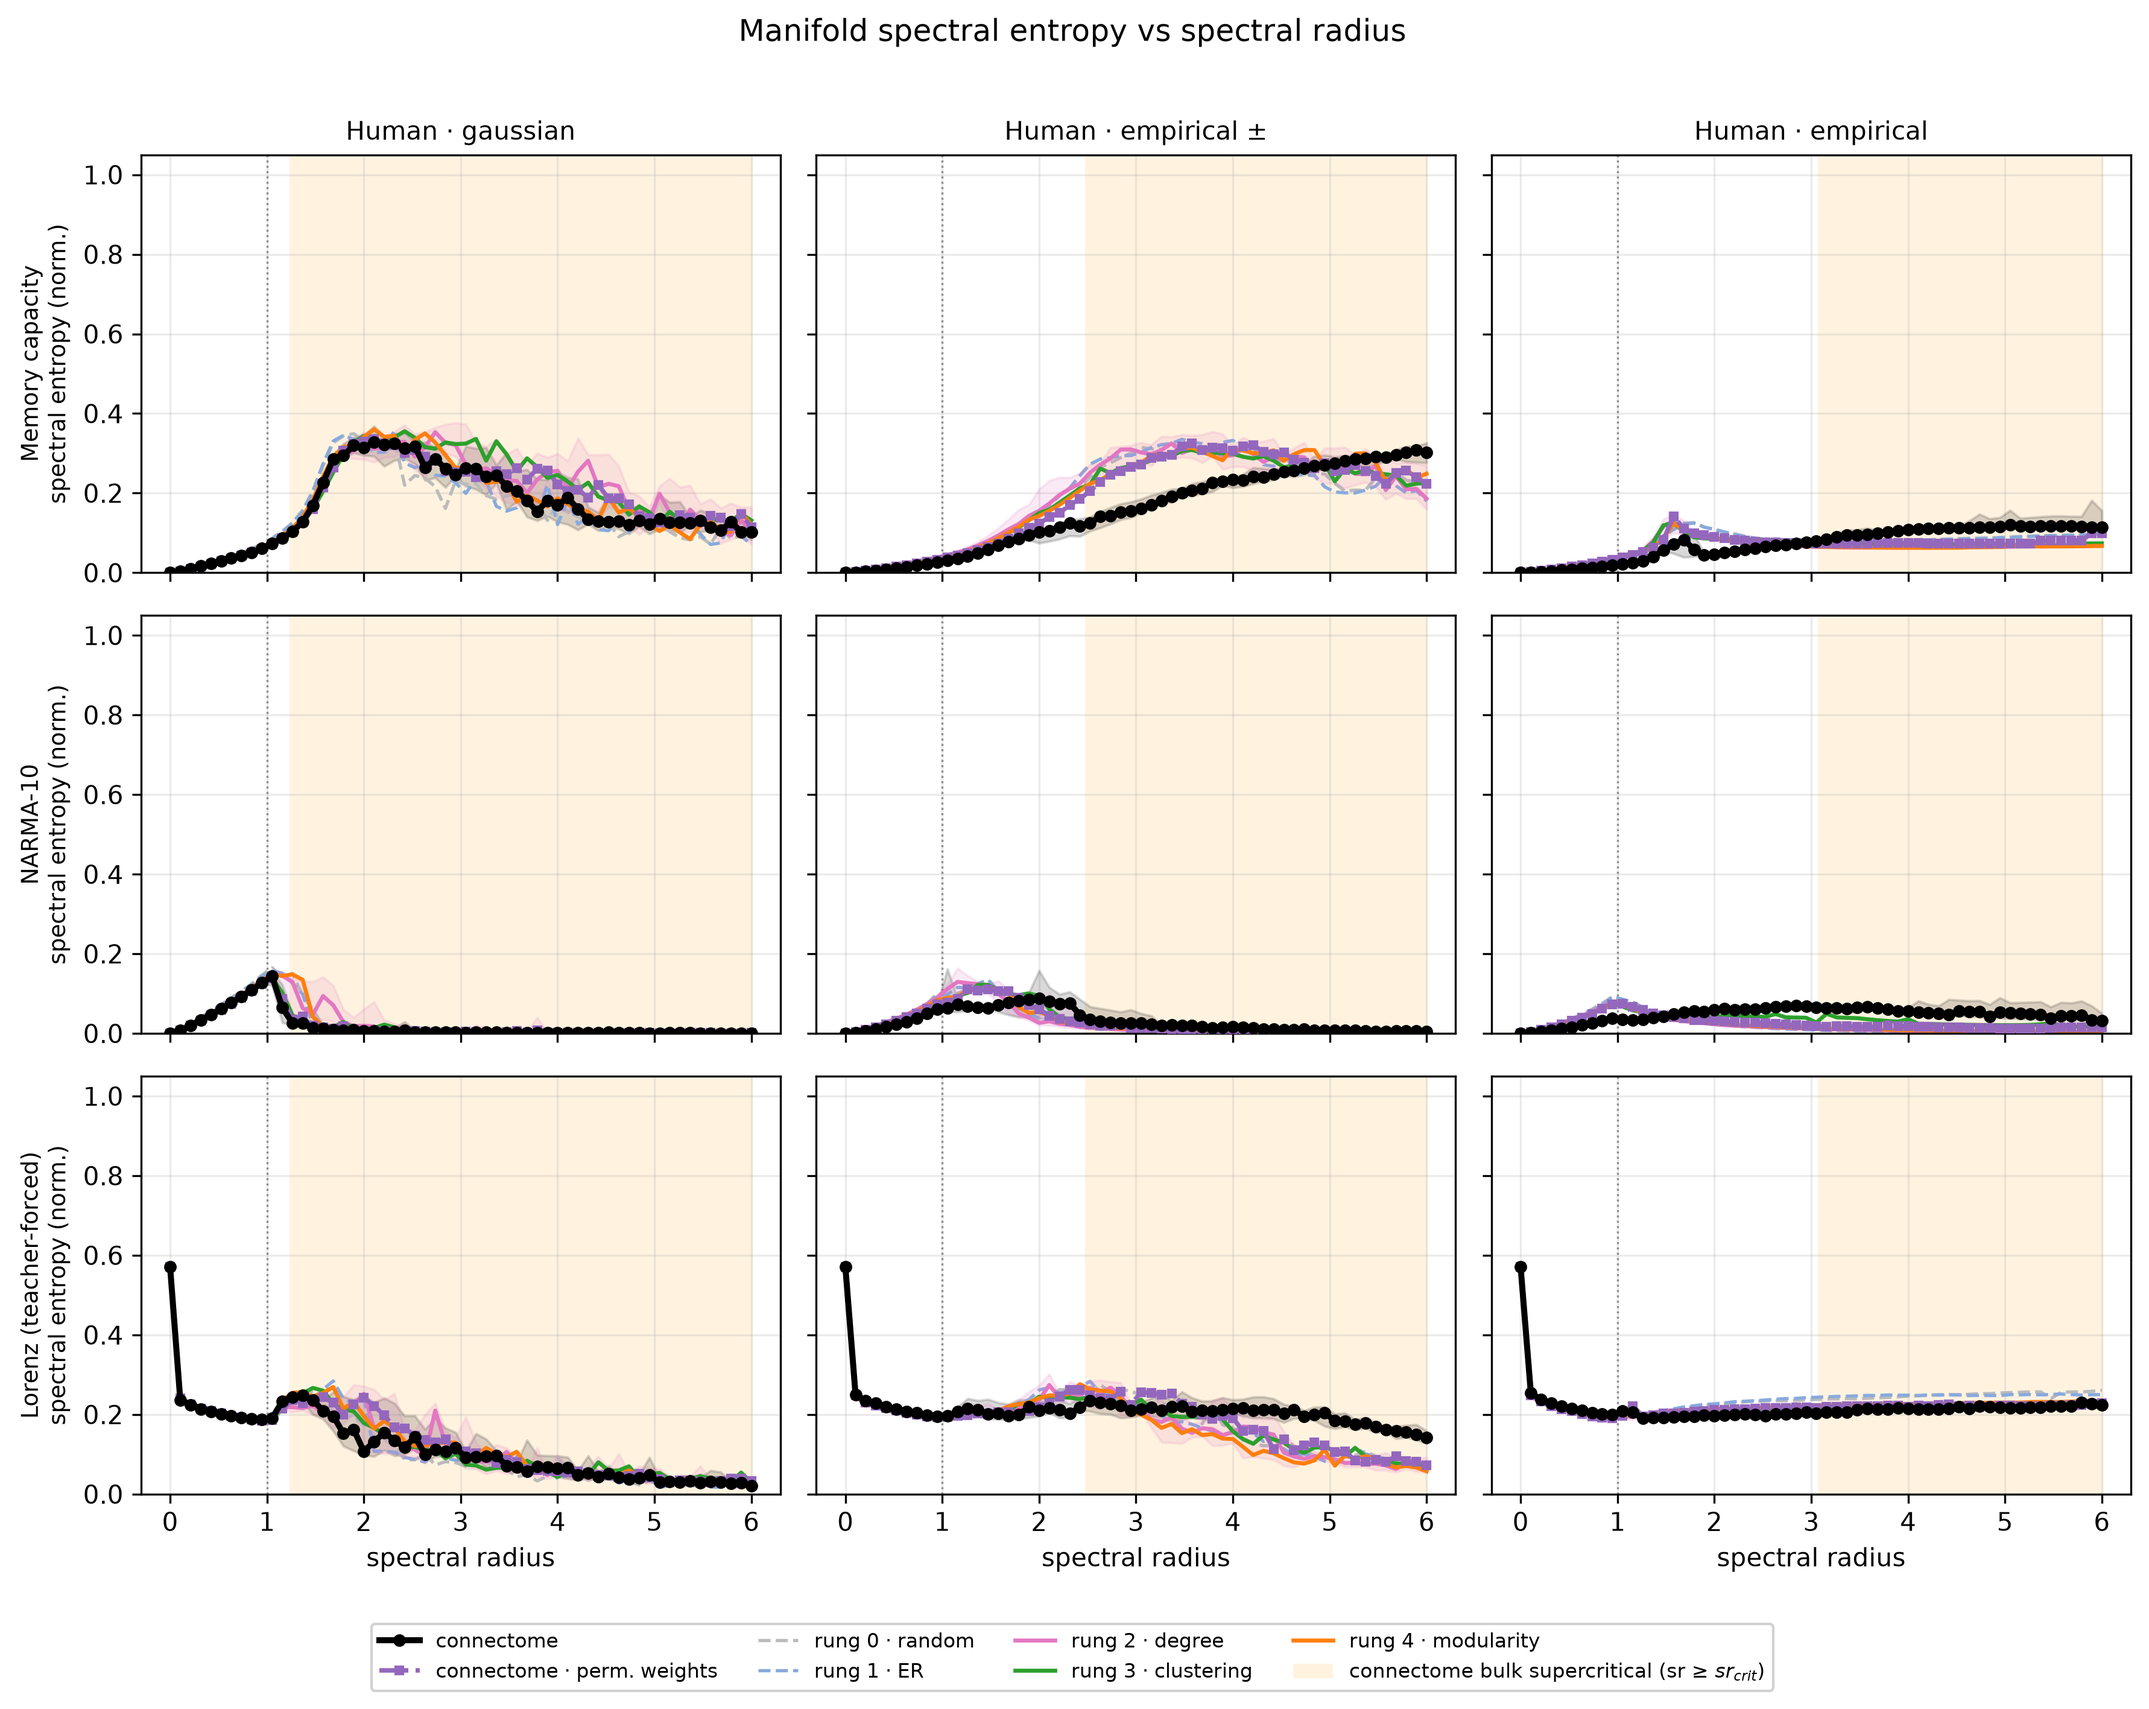
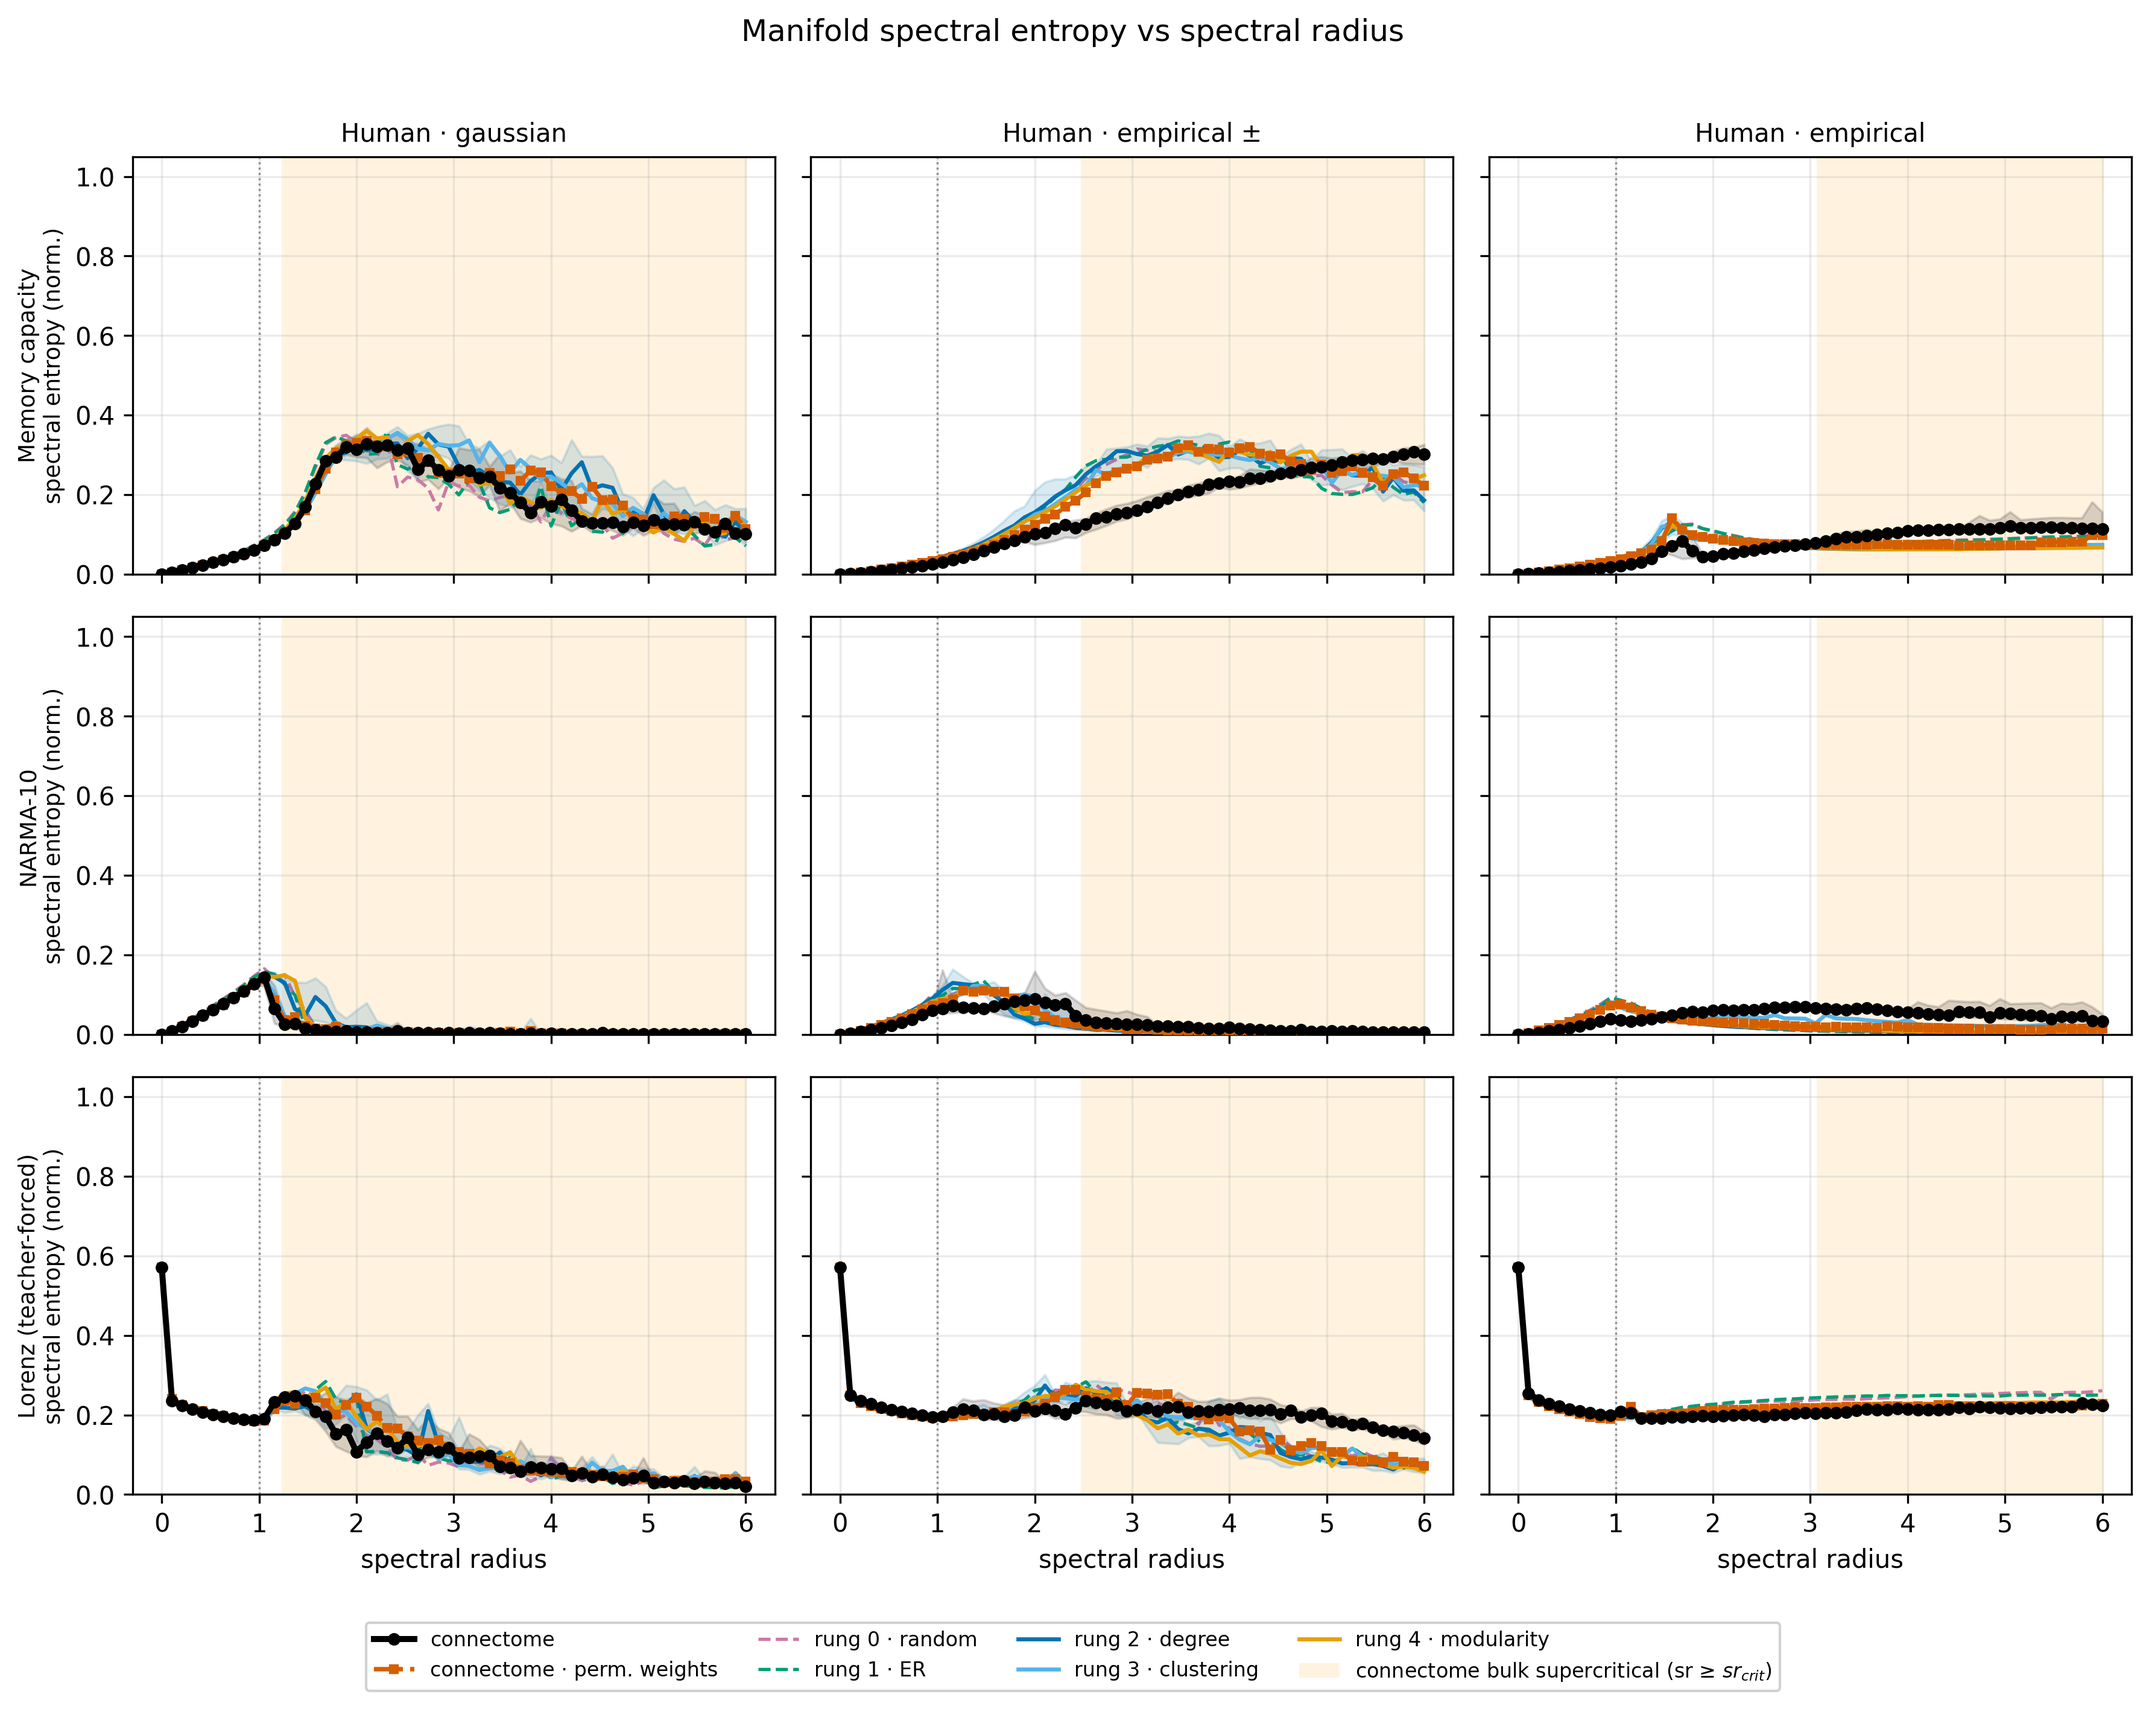
feat(tools): replot the six probe figures onto the new palette, guarded against regeneration
probe1 and probe3 also import `_VARIANT_STYLE`, so six committed figures were left on
the old palette by 8e1da8f: probe1's manifold_{pr,mean_curvature,spectral_entropy}
_vs_sr.png and probe3's probe3_deff_{vs_mc,vs_sr,two_axis}.png. Scope is exactly six --
the other tracked figures in that directory (brain renders, connectogram, alignment,
gap tracking, geometry-vs-performance, PR overlay, eigenvalue spectra) are drawn by
functions that never touch it.

None of the six is a thesis figure. report/FIGURE_LIST.md is canonical for those, and
Act II's chapter figures F4 to F6 render through report/figlib on the current palette.
These are analysis-time artifacts, tracked so probe results stay inspectable, and are
refreshed only so the repo does not carry two palettes into session 2 -- which works in
this directory.

**The obvious way to do this would have regenerated a frozen source.** probe3.run_deff
advertises "No reservoir runs", which is true of compute, but it rewrites
probe3_deff.parquet -- the frozen artifact F6 reads and the one TIER0 sec 3.12's
numbers were promoted from. probe3.run likewise rewrites
manifold_geometry_performance.parquet and manifold_gap_tracking.parquet. Refreshing a
palette must not regenerate a frozen artifact (CONVENTIONS working rule 1), so the tool
reads the frozen parquets and calls the plotting functions directly; probe3's are
private `_plot_*`, which is deliberate and documented.
[…]

diff --git a/tools/replot_task_figures.py b/tools/replot_task_figures.py
@@ -1,10 +1,15 @@
-"""Re-render the per-task figures from frozen results. No simulation.
+"""Re-render the committed `_VARIANT_STYLE` figures from frozen results. No simulation.
 
 Needed whenever the shared variant palette moves: `src/experiment/plots._VARIANT_STYLE`
 is the colour source for every `*_vs_spectral_radius.png` / `*_factorial.png` under
-`experiments/*/`, and `report/figlib/style.check_colour_consistency()` asserts the sweep
-figures use the same one. Change the palette and the committed task figures are stale
-until this runs.
+`experiments/*/` **and for six manifold-probe figures**, and
+`report/figlib/style.check_colour_consistency()` asserts the sweep figures use the same
+one. Change the palette and those committed figures are stale until this runs.
+
+**Nothing here may write a `.parquet`.** Every frozen artifact under `experiments/` is
+fingerprinted (mtime + size) before the run and re-checked after; a single byte moving
+raises. That guard is not paranoia -- see the probe section below, where the obvious
+entry point does exactly that.
 
 **Why this exists rather than `python -m experiments.human.human_mc.run`:** each task's
 `run.py:main` calls `runner.run_matrix(...)` before `stats.run` / `plots.run`, so
@@ -24,6 +29,22 @@ Two config fields need care and are taken from the task's `run.py`, not guessed:
 Mackey-Glass is included: `PREREG_MACKEY_GLASS.md` sections 1 to 3 are written and
 committed, so `CONVENTIONS` working rule 6 no longer holds it back.
 
+**The manifold probes, and why their `run*` entry points are NOT used.** Six committed
+figures are drawn with `_VARIANT_STYLE`: probe1's `manifold_{pr,mean_curvature,
+spectral_entropy}_vs_sr.png` and probe3's `probe3_deff_{vs_mc,vs_sr,two_axis}.png`. The
+tempting call is `probe3.run_deff()`, whose docstring says "No reservoir runs" -- true of
+compute, but it **rewrites `probe3_deff.parquet`**, which is the frozen source F6 reads
+and which `TIER0` §3.12's numbers were promoted from. `probe3.run()` likewise rewrites
+`manifold_geometry_performance.parquet` and `manifold_gap_tracking.parquet`. Refreshing a
+palette must not regenerate a frozen artifact (`CONVENTIONS` working rule 1), so this
+module reads the frozen parquets and calls the plotting functions directly. probe3's are
+private (`_plot_*`); that is deliberate and is the reason.
+
+None of the six are thesis figures -- `report/FIGURE_LIST.md` is canonical for those, and
+Act II's chapter figures F4 to F6 render through `report/figlib` on the current palette.
+These are analysis-time artifacts, tracked so probe results stay inspectable, and they
+are refreshed so the repo does not carry two palettes.
+
     python -m tools.replot_task_figures --list      # what would be written
     python -m tools.replot_task_figures             # write them
 """
@@ -37,12 +58,34 @@ if str(_ROOT) not in sys.path:
     sys.path.insert(0, str(_ROOT))
 
 from src.reservoir import blas  # noqa: F401,E402  (limit BLAS threads; import early)
+import pandas as pd  # noqa: E402  (after `blas`, which must precede the numpy import)
 from src.experiment import plots  # noqa: E402
+
+
+# ---------------------------------------------------------------------------
+# The guard: this module renders figures and must never touch a frozen artifact
+# ---------------------------------------------------------------------------
+def _parquet_fingerprint() -> dict:
+    """(mtime_ns, size) for every frozen parquet under experiments/."""
+    return {str(p): (p.stat().st_mtime_ns, p.stat().st_size)
+            for p in sorted((_ROOT / "experiments").rglob("*.parquet"))}
+
+
+def _assert_frozen(before: dict) -> int:
+    after = _parquet_fingerprint()
+    changed = sorted({*before, *after}
+                     - {k for k in before if before.get(k) == after.get(k)})
+    if changed:
+        raise RuntimeError(
+            "this tool wrote or removed a frozen artifact, which it must never do:\n  "
+            + "\n  ".join(str(Path(c).relative_to(_ROOT)) for c in changed)
+            + "\nA `run*` entry point was probably called where a plotting function was "
+              "meant; see the module docstring.")
+    return len(after)
 
 
 def _frozen_sweep(cfg):
     """The spectral-radius grid actually present in the frozen results."""
-    import pandas as pd
     sweep = sorted(pd.read_parquet(cfg.results_parquet).spectral_radius.unique())
     return [float(sr) for sr in sweep]
 
@@ -109,9 +152,64 @@ TARGETS = [
 ]
 
 
+# ---------------------------------------------------------------------------
+# Manifold probes -- plotting functions only, never the `run*` entry points
+# ---------------------------------------------------------------------------
+def _probe1_figures(scale: int) -> list:
+    """probe1's three `_VARIANT_STYLE` figures from the frozen manifold_metrics.parquet.
+
+    `write_figures` is the same function `probe1.run` calls, and it receives the same
+    frame: `run` writes `df` to manifold_metrics.parquet and then passes `df` straight
+    on, so reading that parquet back reproduces its input exactly. `supercrit` is
+    rebuilt the way `run` does -- an eigendecomposition of the connectome per condition,
+    seconds, no reservoir simulation.
+    """
+    from experiments.human import matrix_config
+    from experiments.human.analysis.manifold import common as manifold_common, probe1
+    from experiments.human.substrates import HumanSubstrateBuilder
+
+    results_dir, figures_dir = manifold_common.scale_dirs(scale)
+    frame = pd.read_parquet(results_dir / "manifold_metrics.parquet")
+    supercritical = (HumanSubstrateBuilder(scale=scale)
+                     .connectome_supercritical_radii(matrix_config.CONDITIONS))
+    probe1.write_figures(frame, figures_dir, supercritical)
+    return [figures_dir / f"manifold_{metric}_vs_sr.png"
+            for metric in probe1._METRIC_FIGURES]
+
+
+def _probe3_figures(scale: int) -> list:
+    """probe3's three `_VARIANT_STYLE` figures from the frozen probe3_deff.parquet.
+
+    Deliberately calls the private `_plot_*` helpers rather than `run_deff`, which
+    would rewrite probe3_deff.parquet -- the frozen source F6 reads. See the module
+    docstring; the fingerprint guard in `main` is what enforces it.
+    """
+    from experiments.human.analysis.manifold import common as manifold_common, probe3
+
+    results_dir, figures_dir = manifold_common.scale_dirs(scale)
+    deff = pd.read_parquet(results_dir / "probe3_deff.parquet")
+    figures_dir.mkdir(parents=True, exist_ok=True)
+    written = []
+    for plot, name in ((probe3._plot_deff_vs_mc, "probe3_deff_vs_mc"),
+                       (probe3._plot_deff_vs_sr, "probe3_deff_vs_sr"),
+                       (probe3._plot_two_axis, "probe3_deff_two_axis")):
+        path = figures_dir / f"{name}.png"
+        plot(deff, path)
+        print(f"Saved {path}")     # probe1's write_figures prints its own; match it
+        written.append(path)
+    return written
+
+
+PROBE_TARGETS = [
+    ("probe1 manifold metrics @ N=448", lambda: _probe1_figures(448)),
+    ("probe3 d_eff @ N=448", lambda: _probe3_figures(448)),
+]
+
+
 def main(argv) -> int:
     listing = "--list" in argv
-    failures, written = [], 0
+    frozen_before = _parquet_fingerprint()
+    failures, written, probe_figures = [], 0, 0
     for label, build in TARGETS:
         try:
             configs = build()
@@ -131,10 +229,27 @@ def main(argv) -> int:
             print(f"  [replot] {label} ({cfg.metric})", flush=True)
             plots.run(cfg)
             written += 1
+
+    for label, build in PROBE_TARGETS:
+        if listing:
+            print(f"  [would write] {label} -> probe plotting functions "
+                  "(never run_deff/run: those rewrite frozen parquets)")
+            continue
+        try:
+            print(f"  [replot] {label}", flush=True)
+            # The builders print their own "Saved" lines, so only count here.
+            probe_figures += len(build())
+        except Exception as exc:                          # noqa: BLE001
+            print(f"  [SKIP] {label}: {exc}")
+            failures.append(label)
+
+    n_frozen = _assert_frozen(frozen_before)
     if failures:
         print(f"\n{len(failures)} target(s) skipped: {', '.join(failures)}")
-    print(f"\n{'listed' if listing else f'replotted {written} figure set(s)'}; "
+    print(f"\n{'listed' if listing else f'replotted {written} task figure set(s) '
+                                        f'and {probe_figures} probe figures'}; "
           f"{len(failures)} skipped.")
+    print(f"{n_frozen} frozen parquets under experiments/ unchanged.  [OK]")
     return 1 if failures else 0
 
 

diff --git a/report/act1_structure.md b/report/act1_structure.md
@@ -589,6 +589,22 @@ and anything a later session needs to know.
     across human MC / NARMA-10 / Lorenz at both scales and C. elegans Mackey-Glass at
     both horizons. No simulation ran. MG was included because
     `PREREG_MACKEY_GLASS.md` §§1-3 are written and committed, lifting working rule 6.
+
+    **Extended to the manifold probes, where the obvious entry point would have
+    regenerated a frozen source.** Six further committed figures use `_VARIANT_STYLE`:
+    probe1's `manifold_{pr,mean_curvature,spectral_entropy}_vs_sr.png` and probe3's
+    `probe3_deff_{vs_mc,vs_sr,two_axis}.png`. **None is a thesis figure** —
+    `FIGURE_LIST` is canonical for those, and Act II's chapter figures F4 to F6 render
+    through `figlib` on the current palette — so these are analysis-time artifacts,
+    refreshed only so the repo does not carry two palettes. The trap: `probe3.run_deff`
+    describes itself as *"No reservoir runs"*, which is true of compute, but it
+    **rewrites `probe3_deff.parquet`** — the frozen source F6 reads and the one
+    `TIER0` §3.12's numbers were promoted from. `probe3.run` likewise rewrites
+    `manifold_geometry_performance.parquet` and `manifold_gap_tracking.parquet`. The
+    tool therefore reads the frozen parquets and calls the plotting functions directly
+    (probe3's are private `_plot_*`; that is deliberate), and **fingerprints every
+    parquet under `experiments/` before and after, raising if one moves**. 90 parquets,
+    unchanged, verified on the run that produced these six.
 12. **Two tracked figures were already stale before this session and remain so.**
     `celegans_mackey_glass/figures/h{84,300}/effect_sizes_vs_spectral_radius.png` are
     untagged legacy names from before `plots.py` began metric-tagging its effect-size
